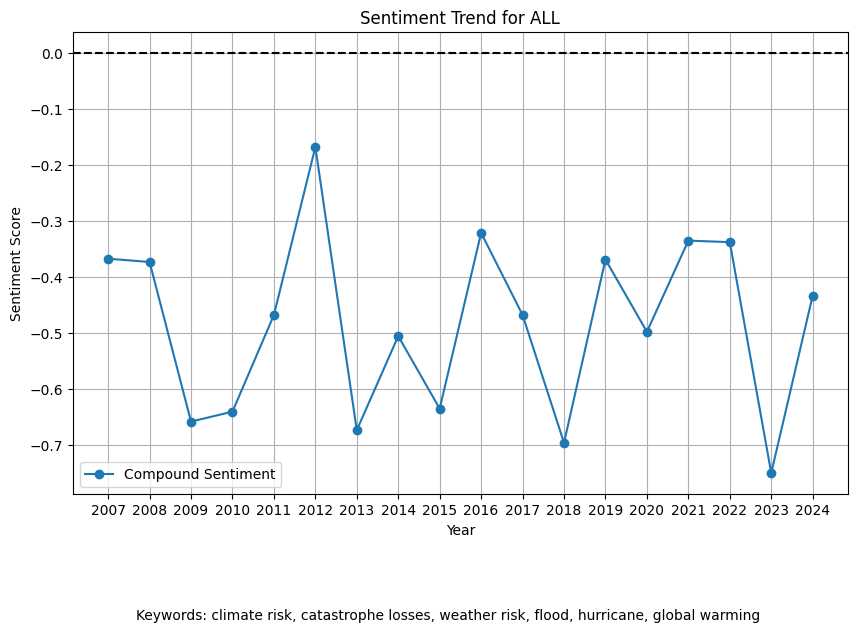
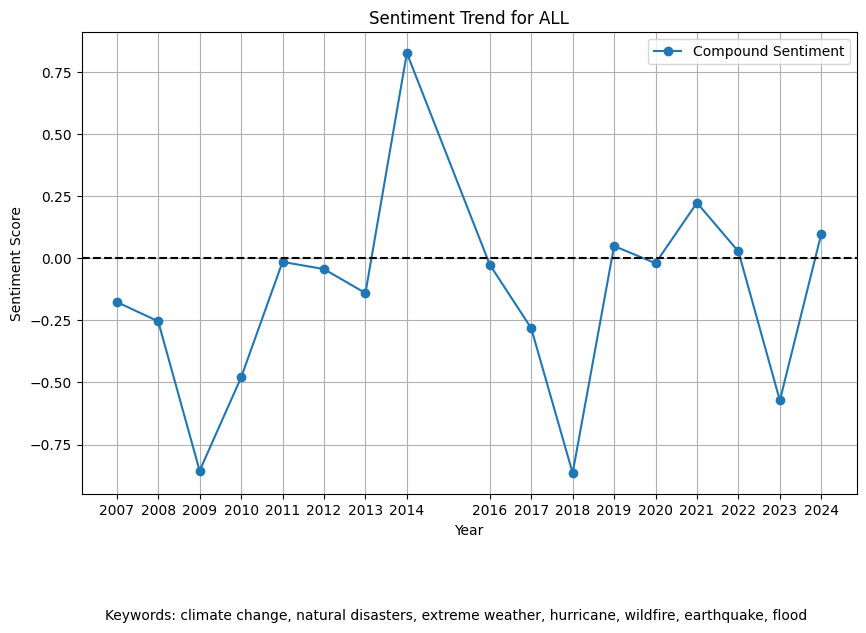
code clean up

diff --git a/code/graphing.py b/code/graphing.py
@@ -47,7 +47,6 @@ def plot_sentiment_trends(data, output_folder="plots"):
     Plot sentiment trends for each ticker, and save to the specified folder.
     """
     os.makedirs(output_folder, exist_ok=True)  # Ensure the folder exists
-
     # Individual plots for each ticker
     for ticker in data["ticker"].unique():
         ticker_data = data[data["ticker"] == ticker].sort_values(by="year")
@@ -108,7 +107,6 @@ def plot_sentiment_trends(data, output_folder="plots"):
 
     # Format the x-axis for full years
     plt.xticks(data["year"].unique().astype(int))
-
     # Add keywords below the combined plot
     keyword_text = f"Keywords: {', '.join(keywords)}"
     plt.figtext(0.5, -0.1, keyword_text, wrap=True, horizontalalignment="center", fontsize=10)
@@ -121,12 +119,11 @@ def plot_sentiment_trends(data, output_folder="plots"):
     except Exception as e:
         logging.error(f"Error saving combined sentiment plot: {e}")
 
-
 def plot_sentiment_trends_derivatives(data, output_folder="plots"):
     """
     Plot sentiment trends and their first derivative for each ticker, and save to the specified folder.
     """
-    os.makedirs(output_folder, exist_ok=True)  # Ensure the folder exists
+    os.makedirs(output_folder, exist_ok=True)  # Ensure the folder 
 
     # Individual plots for each ticker
     for ticker in data["ticker"].unique():
@@ -255,7 +252,6 @@ def plot_keyword_frequencies(data, output_folder="plots"):
     Plot keyword frequencies for each ticker and include the average, then save to the specified folder.
     """
     os.makedirs(output_folder, exist_ok=True)  # Ensure the folder exists
-
     # Calculate the average keyword frequency across all tickers for each year
     average_frequencies = (
         data.groupby("year")["keyword_count"]
@@ -336,7 +332,6 @@ def plot_keyword_frequencies(data, output_folder="plots"):
 
     # Format the x-axis for full years
     plt.xticks(data["year"].unique().astype(int))
-
     # Add keywords below the combined plot
     keyword_text = f"Keywords: {', '.join(keywords)}"
     plt.figtext(0.5, -0.1, keyword_text, wrap=True, horizontalalignment="center", fontsize=10)

diff --git a/config.py b/config.py
@@ -16,10 +16,19 @@ interview_folder = "/export/home/rcsguest/rcs_apark/Desktop/home-insurance/data/
 transcript_folder = "/export/home/rcsguest/rcs_apark/Desktop/home-insurance/data/Public_Insurance_Transcripts/"
 output_folder = "/export/home/rcsguest/rcs_apark/Desktop/home-insurance/output/"
 
+'''
+TYPES OF KEYWORDS
+
+WEATHER
 keywords = [
-    "climate risk", "catastrophe losses", "weather risk", "flood", "hurricane", "global warming"
+    'climate change', 'natural disasters', 'extreme weather', 'hurricane', 'wildfire', 'earthquake', 'flood'
 ]
 
-# keywords = [
-#     "reinsurance", "reduce exposure", "premium increase"
-# ]
+FINANCIAL
+keywords = [
+    'claims cost', 'underwriting losses', 'reinsurance premiums', 'rate increases'
+]
+'''
+keywords = [
+    'climate change', 'natural disasters', 'extreme weather', 'hurricane', 'wildfire', 'earthquake', 'flood'
+]
